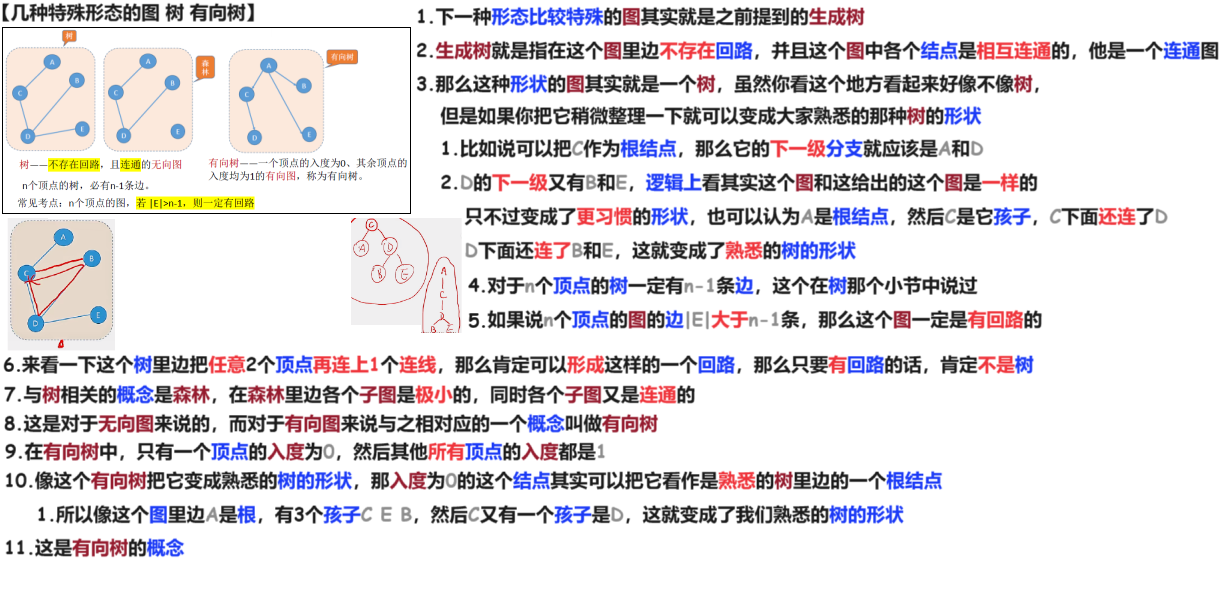
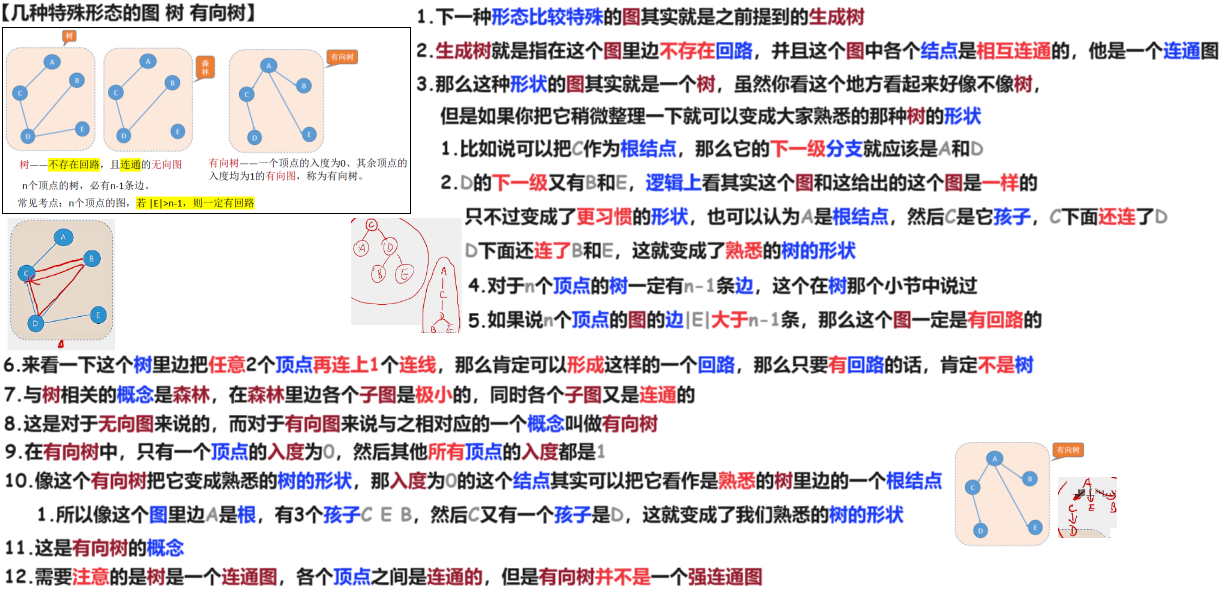
240404

diff --git a/01 初试/02 DS/02 24 王道 基础/06 图/01 图 定义 基本术语 240404/02 Doc.md b/01 初试/02 DS/02 24 王道 基础/06 图/01 图 定义 基本术语 240404/02 Doc.md
@@ -100,3 +100,10 @@
 
 # 17 几种特殊形态的图 树 森林 有向树
 
+<img src="https://cvp.oss-cn-shanghai.aliyuncs.com/picgo/202404041132027.png" alt="image-20240404113258856" style="zoom:50%;" />
+
+
+
+# 18 知识回顾与重要考点
+
+<img src="https://cvp.oss-cn-shanghai.aliyuncs.com/picgo/202404041141260.png" alt="image-20240404114140148" style="zoom:50%;" />
